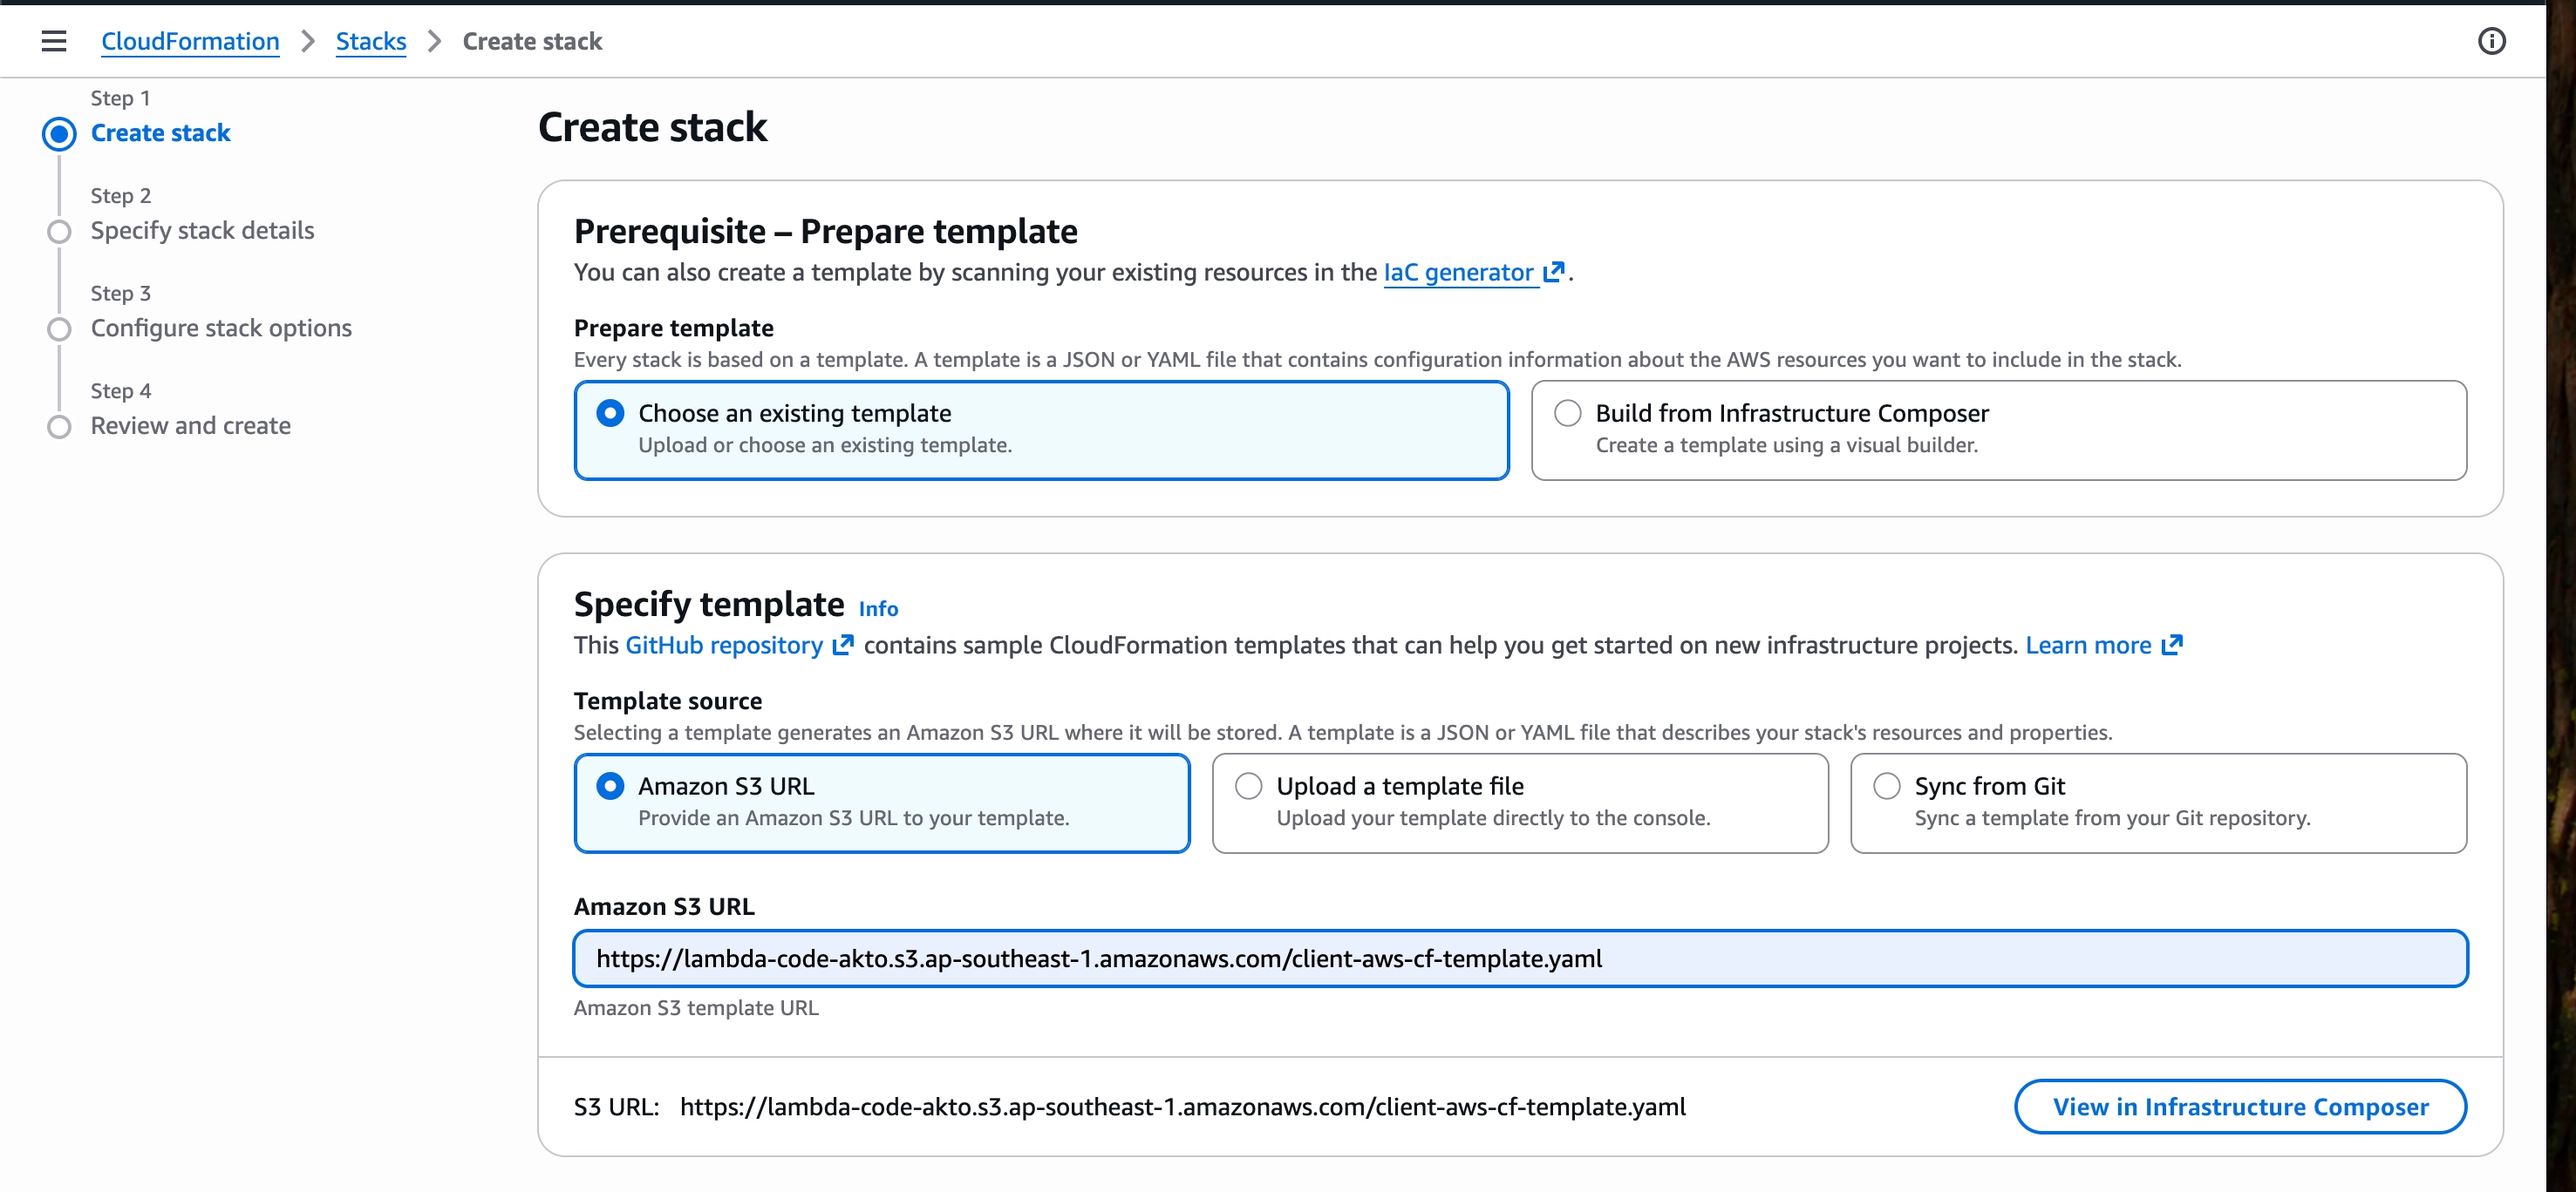
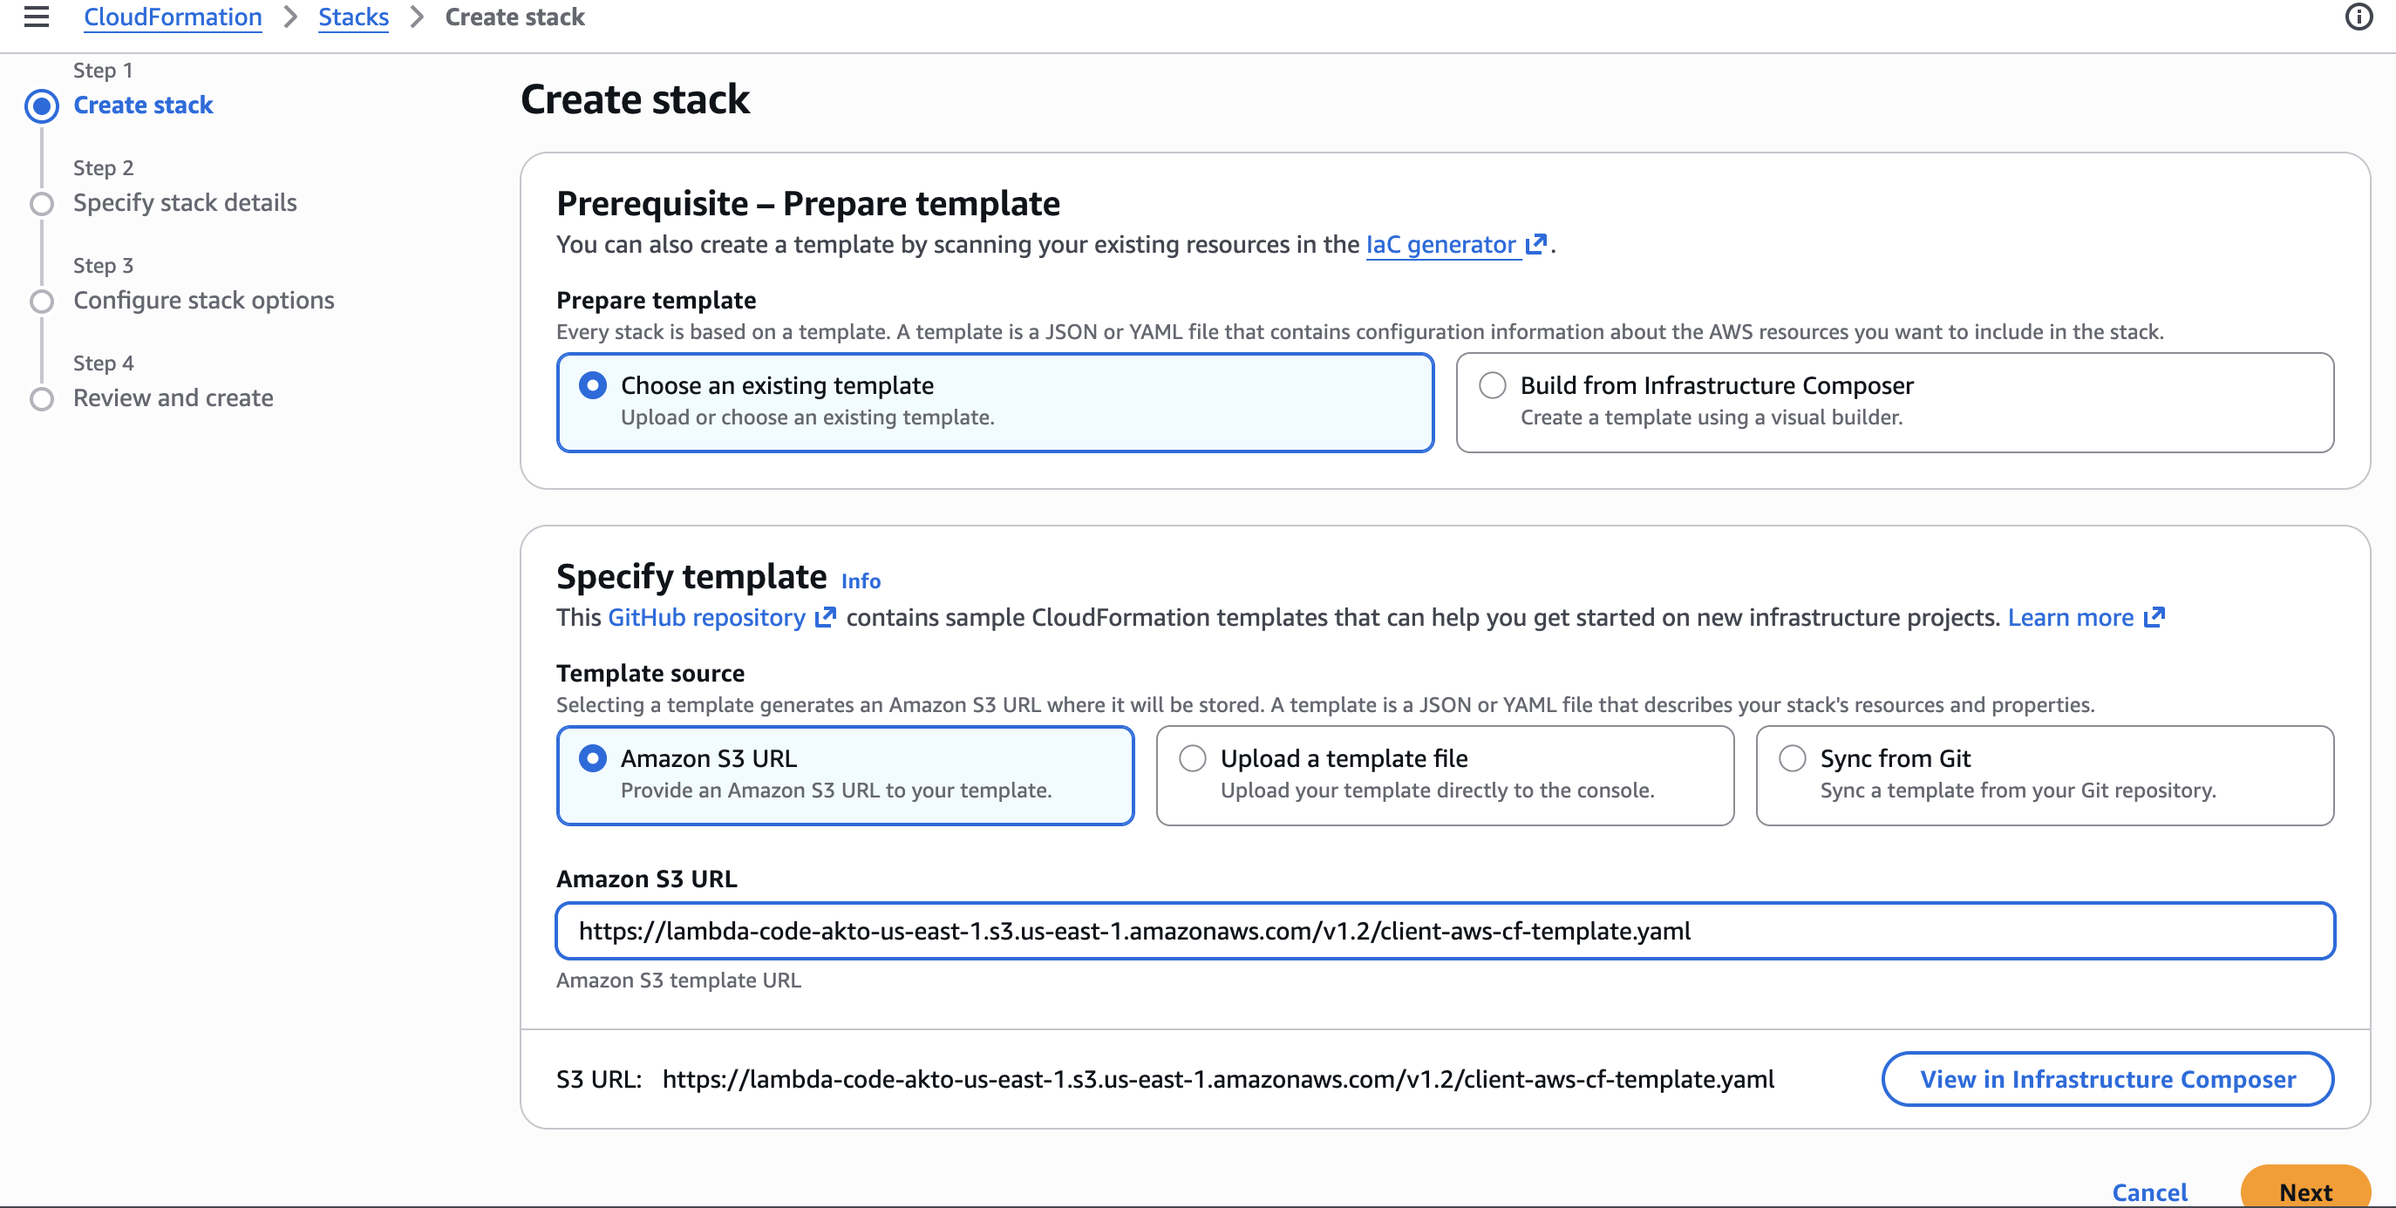
aws doc updated

Changed region(s): [[0.0, 0.0, 1.0, 1.0], [0.2165, 0.8904, 0.7424, 0.9518]]

diff --git a/akto-argus-agentic-ai-security-for-homegrown-ai/connectors/ai-agent-security/connect-akto-with-aws-bedrock.md b/akto-argus-agentic-ai-security-for-homegrown-ai/connectors/ai-agent-security/connect-akto-with-aws-bedrock.md
@@ -72,6 +72,8 @@ Before running the deployment, gather this information:
 5. **AKTO API Key**: Authentication key for your AKTO instance
    * Navigate to: **AKTO Argus** → **Connectors** → **Setup Guardrails**
    * Copy the API key from there
+6. **LambdaCodeVersion**: version
+   * Contact AKTO support team to obtain your Data Ingestion URL
 {% endstep %}
 
 {% step %}
@@ -89,7 +91,7 @@ Before running the deployment, gather this information:
 2. Select **Amazon S3 URL**
 3.  Enter the CloudFormation template URL:
 
-    <pre data-overflow="wrap"><code>https://lambda-code-akto-ap-south-1.s3.ap-south-1.amazonaws.com/client-aws-cf-template.yaml
+    <pre data-overflow="wrap"><code>https://lambda-code-akto-us-east-1.s3.us-east-1.amazonaws.com/v1.2/client-aws-cf-template.yaml
     </code></pre>
 
     <div data-with-frame="true"><figure><img src="../../../.gitbook/assets/image (180).png" alt="" width="563"><figcaption></figcaption></figure></div>
@@ -110,8 +112,9 @@ Fill in the form with your information:
   * Example: `my-company-bedrock-logs-2026`
 * **LogsPrefix**: (Optional) S3 prefix path for Bedrock logs
   * Example: `bedrock-logs`
-* **MarkersBucketName**: S3 bucket name to store AKTO marker files
+* **MarkersBucketName**: S3 bucket name to store AKTO marker manifest file
 * **DataIngestionEndpoint**: `<URL-obtained-from-akto-team>`
+* **LambdaCodeVersion**: v1.2 `<Version-obtained-from-akto-team>`
 * **AktoApiKey**: `<Akto-API-Key>`&#x20;
 
 <div data-with-frame="true"><figure><img src="../../../.gitbook/assets/image (181).png" alt="" width="563"><figcaption></figcaption></figure></div>
